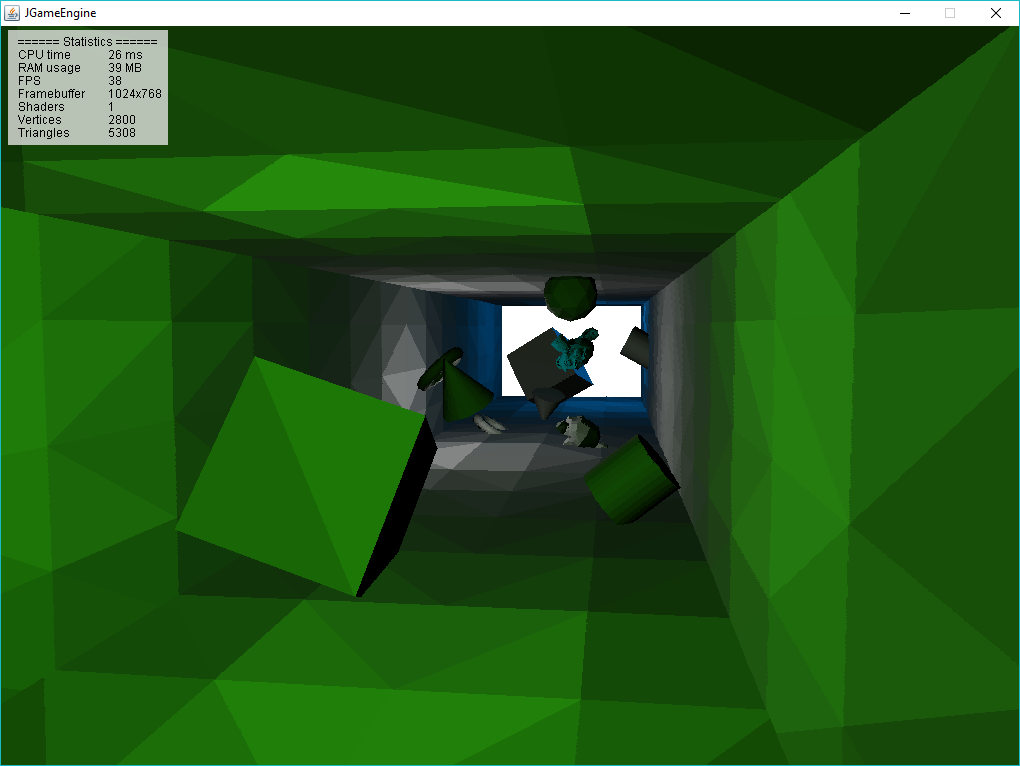
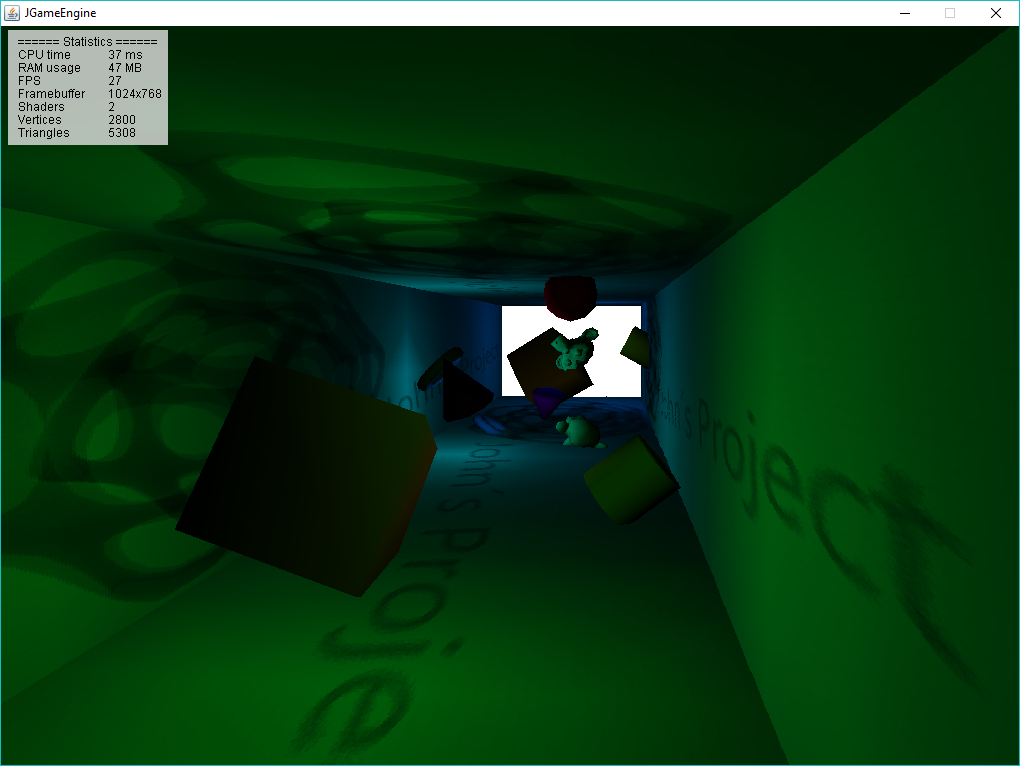
Updated screenshots

diff --git a/src/test/java/com/johnsproject/jgameengine/EngineTest.java b/src/test/java/com/johnsproject/jgameengine/EngineTest.java
@@ -63,9 +63,9 @@ public class EngineTest implements EngineListener, EngineKeyListener, MouseMotio
 		Engine.getInstance().addEngineListener(inputEngine);
 		Engine.getInstance().addEngineListener(window);
 		Engine.getInstance().addEngineListener(stats);
-//		for (int i = 0; i < graphicsEngine.getPreprocessingShadersCount(); i++) {
-//			graphicsEngine.removePreprocessingShader(graphicsEngine.getPreprocessingShader(i));
-//		}
+		for (int i = 0; i < graphicsEngine.getPreprocessingShadersCount(); i++) {
+			graphicsEngine.removePreprocessingShader(graphicsEngine.getPreprocessingShader(i));
+		}
 //		graphicsEngine.removeShader(graphicsEngine.getShader(0));
 //		graphicsEngine.addShader(new FlatShader());
 	}
@@ -74,7 +74,7 @@ public class EngineTest implements EngineListener, EngineKeyListener, MouseMotio
 		try {
 			Scene scene = new SceneImporter().load("C:/Development/test.scene");
 			Texture texture = new Texture(new FileLibrary().loadImage("C:/Development/JohnsProject.png"));
-//			((ShaderProperties)scene.getModel("Ground").getMesh().getMaterial(0).getProperties()).setTexture(texture);
+			((ShaderProperties)scene.getModel("Ground").getMesh().getMaterial(0).getProperties()).setTexture(texture);
 			return scene;
 		} catch (IOException e) {
 			e.printStackTrace();
@@ -100,8 +100,8 @@ public class EngineTest implements EngineListener, EngineKeyListener, MouseMotio
 
 	public void mouseMoved(MouseEvent e) {
 		int[] rotation = cameraTransform.getRotation();
-		rotation[2] = -((e.getX() - (WINDOW_W >> 1)) >> 1) << MathLibrary.FP_BITS;
-		rotation[0] = -(((e.getY() - (WINDOW_H >> 1)) >> 1) - 90) << MathLibrary.FP_BITS;
+//		rotation[2] = -((e.getX() - (WINDOW_W >> 1)) >> 1) << MathLibrary.FP_BITS;
+//		rotation[0] = -(((e.getY() - (WINDOW_H >> 1)) >> 1) - 90) << MathLibrary.FP_BITS;
 	}
 
 	public void keyTyped(KeyEvent e) {

diff --git a/README.md b/README.md
@@ -20,4 +20,3 @@ It only uses Java AWT, as the 3D part is done by software rendering.
 ![Screenshot](Images/Example2.PNG "Example2")
 ![Screenshot](Images/Example3.PNG "Example3")
 ![Screenshot](Images/Example4.PNG "Example4")
-![Screenshot](Images/Example5.PNG "Example5")
